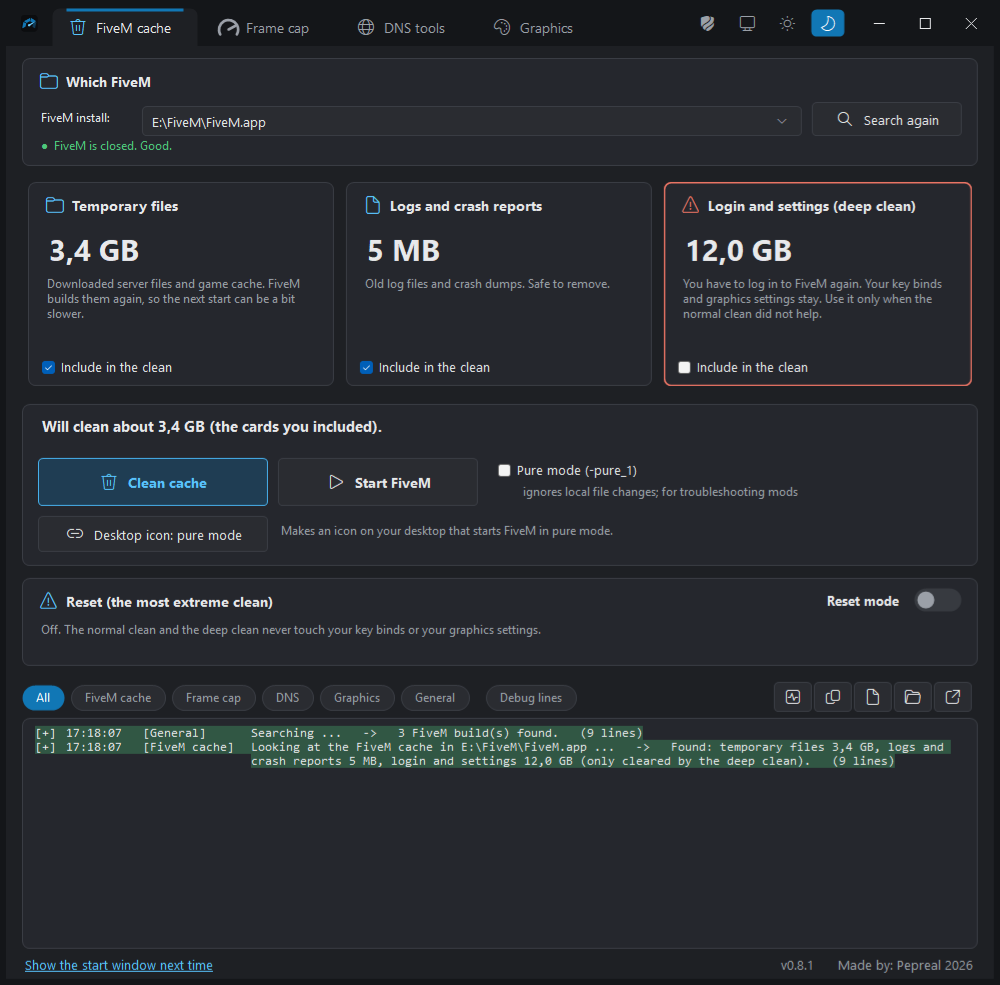
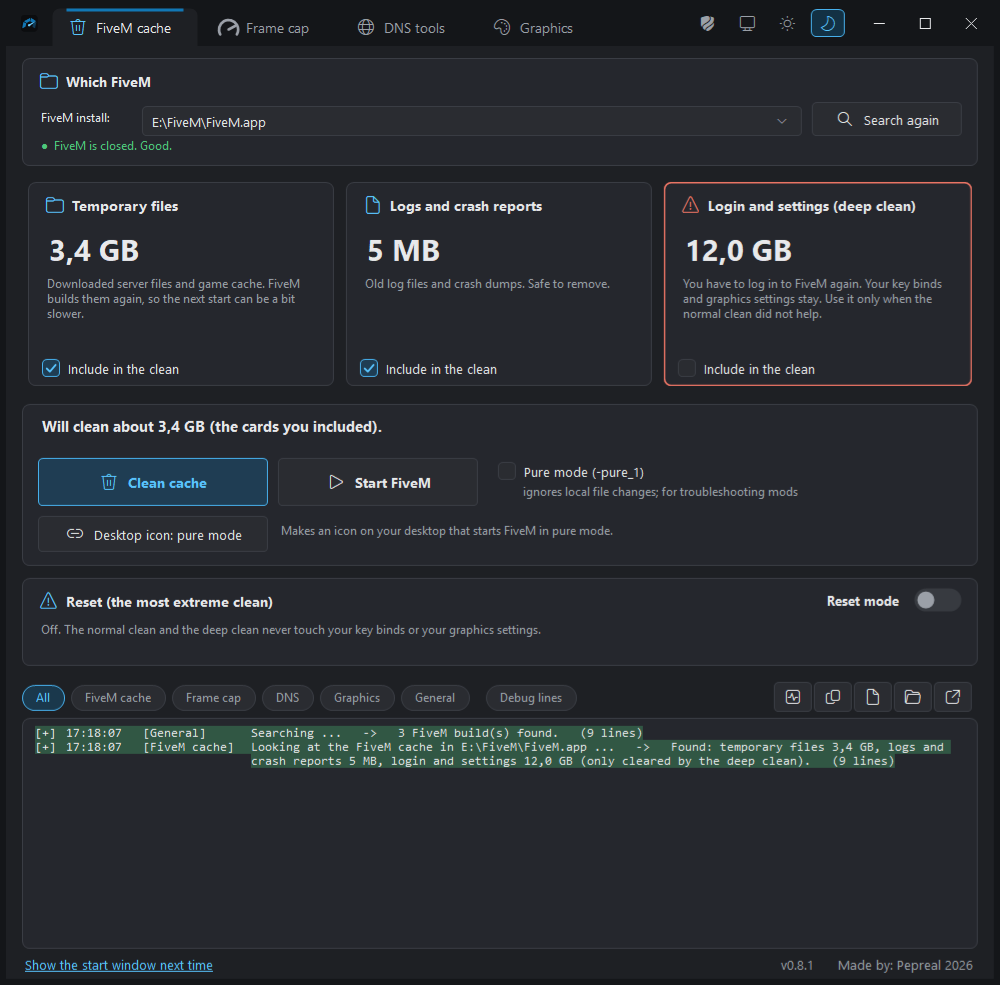
FiveM Toolbox (after 0.8.1) - tick boxes, selected pills and the selected theme button in the outline colours
- A tick box that is ticked has a dark blue fill, a blue border and a blue tick; a box that is not ticked is
  grey. All six tick boxes and the "Use" column of the two lists. A selected log pill and the selected theme
  button of the title bar are an outline too. Same in the dark and the light theme.
- Checked at 100 and 125 percent. README pictures show it. --review-test has 10 more checks; 6 planted faults caught.

diff --git a/source/FiveMToolbox.cs b/source/FiveMToolbox.cs
@@ -312,6 +312,12 @@ namespace FiveMFrameCap
                 int need = TextRenderer.MeasureText(l.Text.TrimEnd('\r', '\n', ' '), l.Font, new Size(l.Width, 0), TextFormatFlags.WordBreak | TextFormatFlags.NoPadding).Height;
                 if (need > l.Height + 3) return NameOf(l) + " needs " + need + " px of height but is " + l.Height + " px high";
             }
+            ThemedCheckBox cx = c as ThemedCheckBox;
+            if (cx != null && !string.IsNullOrEmpty(cx.Text))
+            {
+                int need = TextRenderer.MeasureText(cx.Text, cx.Font, new Size(Math.Max(1, cx.Width - Dpi.S(26)), 0), TextFormatFlags.WordBreak | TextFormatFlags.NoPadding).Height;
+                if (need > cx.Height + 3) return NameOf(cx) + " needs " + need + " px of height but is " + cx.Height + " px high";
+            }
             IconButton b = c as IconButton;
             if (b != null && !string.IsNullOrEmpty(b.Text))
             {
@@ -4863,6 +4869,18 @@ namespace FiveMFrameCap
         }
         protected override void OnMouseEnter(EventArgs e) { hv.To(1f); base.OnMouseEnter(e); }
         protected override void OnMouseLeave(EventArgs e) { hv.To(0f); base.OnMouseLeave(e); }
+        // The colours now (also used by --review-test): selected = the blue outline of the blue buttons.
+        public void GlyphColors(out Color fill, out Color border, out Color glyph)
+        {
+            Color bg = Parent != null ? Parent.BackColor : Theme.Frame;
+            float s = sel.Value, h = hv.Value;
+            Color onFill, onBorder, onText; Theme.Outline(bg, h, false, out onFill, out onBorder, out onText);
+            Color baseFill = Fx.Mix(bg, Theme.Bg4, h);
+            fill = Fx.Mix(baseFill, onFill, s);
+            border = Fx.Mix(baseFill, onBorder, s);
+            glyph = Fx.Mix(Theme.Text2, onText, s);
+        }
+
         protected override void OnPaint(PaintEventArgs e)
         {
             Graphics g = e.Graphics;
@@ -4870,10 +4888,15 @@ namespace FiveMFrameCap
             Color bg = Parent != null ? Parent.BackColor : Theme.Frame;
             g.Clear(bg);
             float s = sel.Value, h = hv.Value;
+            Color fill, border, glyph; GlyphColors(out fill, out border, out glyph);
             Rectangle r = new Rectangle(1, 1, Width - 3, Height - 3);
             if (s > 0.01f || h > 0.01f)
-                using (GraphicsPath p = Gfx.Rounded(r, Dpi.S(10))) using (Brush b = new SolidBrush(Fx.Mix(Fx.Mix(bg, Theme.Bg4, h), Theme.Primary, s))) g.FillPath(b, p);
-            Gfx.Glyph(g, Glyph, new Rectangle(0, 0, Width, Height), Fx.Mix(Theme.Text2, Color.White, s), 11f);
+                using (GraphicsPath p = Gfx.Rounded(r, Dpi.S(10)))
+                {
+                    using (Brush b = new SolidBrush(fill)) g.FillPath(b, p);
+                    if (s > 0.01f) using (Pen pen = new Pen(border, 1f + 0.25f * s)) g.DrawPath(pen, p);
+                }
+            Gfx.Glyph(g, Glyph, new Rectangle(0, 0, Width, Height), glyph, 11f);
         }
     }
 
@@ -4949,20 +4972,30 @@ namespace FiveMFrameCap
         }
         protected override void OnMouseEnter(EventArgs e) { hv.To(1f); base.OnMouseEnter(e); }
         protected override void OnMouseLeave(EventArgs e) { hv.To(0f); base.OnMouseLeave(e); }
+        // The colours now (also used by --review-test): not selected = grey, selected = the blue outline of the blue buttons (the change between the two fades).
+        public void PillColors(out Color fill, out Color border, out Color text)
+        {
+            float s = sel.Value, h = hv.Value;
+            Color behind = Parent != null ? Parent.BackColor : Theme.Bg1;
+            Color onFill, onBorder, onText; Theme.Outline(behind, h, false, out onFill, out onBorder, out onText);
+            fill = Fx.Mix(Fx.Mix(Theme.Bg3, Theme.Bg4, h), onFill, s);
+            border = Fx.Mix(Theme.Border, onBorder, s);
+            text = Fx.Mix(Theme.Text2, onText, s);
+        }
+
         protected override void OnPaint(PaintEventArgs e)
         {
             Graphics g = e.Graphics;
             g.SmoothingMode = SmoothingMode.AntiAlias;
             g.Clear(Parent != null ? Parent.BackColor : Theme.Bg1);
-            float s = sel.Value, h = hv.Value;
-            Color fill = Fx.Mix(Fx.Mix(Theme.Bg3, Theme.Bg4, h), Theme.Primary, s);
+            Color fill, border, text; PillColors(out fill, out border, out text);
             Rectangle r = new Rectangle(0, 0, Width - 1, Height - 1);
             using (GraphicsPath p = Gfx.Rounded(r, Height - 1))
             {
                 using (Brush b = new SolidBrush(fill)) g.FillPath(b, p);
-                if (s < 0.99f) using (Pen pen = new Pen(Fx.Mix(Theme.Border, fill, s))) g.DrawPath(pen, p);
+                using (Pen pen = new Pen(border, 1f + 0.25f * sel.Value)) g.DrawPath(pen, p);
             }
-            TextRenderer.DrawText(g, Text, Font, new Rectangle(0, 0, Width - 1, Height - 1), Fx.Mix(Theme.Text2, Color.White, s), TextFormatFlags.HorizontalCenter | TextFormatFlags.VerticalCenter | TextFormatFlags.NoPadding);
+            TextRenderer.DrawText(g, Text, Font, new Rectangle(0, 0, Width - 1, Height - 1), text, TextFormatFlags.HorizontalCenter | TextFormatFlags.VerticalCenter | TextFormatFlags.NoPadding);
         }
     }
 
@@ -5268,6 +5301,81 @@ namespace FiveMFrameCap
             int kd = r.Height - Dpi.S(6);
             float kx = Dpi.F(3f) + (Width - 1 - kd - Dpi.S(6)) * f.Value;
             using (Brush kb = new SolidBrush(Enabled ? knob : Fx.Mix(knob, Theme.Bg1, 0.5f))) g.FillEllipse(kb, kx, r.Y + Dpi.S(3), kd, kd);
+        }
+    }
+
+    // ---------------------------------------------------------------- tick boxes in the colours of the blue outline buttons
+    static class CheckDraw
+    {
+        // A box that is ticked has the blue outline colours (dark blue fill, blue border, blue tick); a box that is not ticked is grey, like a normal button.
+        public static void Colors(Color behind, bool on, float hover, bool enabled, out Color fill, out Color border, out Color mark)
+        {
+            if (on) Theme.Outline(behind, hover, false, out fill, out border, out mark);
+            else { fill = Fx.Mix(Theme.Bg3, Theme.Bg4, hover); border = Fx.Mix(Theme.Border, Theme.Primary, hover * 0.7f); mark = fill; }
+            if (!enabled) { fill = Fx.Mix(fill, behind, 0.5f); border = Fx.Mix(border, behind, 0.5f); mark = Fx.Mix(mark, behind, 0.5f); }
+        }
+
+        public static void Box(Graphics g, Rectangle box, Color behind, bool on, float hover, bool enabled, bool focused)
+        {
+            Color fill, border, mark; Colors(behind, on, hover, enabled, out fill, out border, out mark);
+            SmoothingMode old = g.SmoothingMode; g.SmoothingMode = SmoothingMode.AntiAlias;
+            using (GraphicsPath p = Gfx.Rounded(box, Dpi.S(8)))
+            {
+                using (Brush b = new SolidBrush(fill)) g.FillPath(b, p);
+                using (Pen pen = new Pen(border, on ? Dpi.F(1.25f) : 1f)) g.DrawPath(pen, p);
+            }
+            if (focused) using (GraphicsPath fp = Gfx.Rounded(Rectangle.Inflate(box, Dpi.S(2), Dpi.S(2)), Dpi.S(10))) using (Pen pen2 = new Pen(Theme.AccentText, Dpi.F(1.5f))) g.DrawPath(pen2, fp);
+            if (on)
+            {
+                float w = box.Width, h = box.Height;
+                PointF[] pts = new PointF[] { new PointF(box.X + w * 0.24f, box.Y + h * 0.52f), new PointF(box.X + w * 0.43f, box.Y + h * 0.71f), new PointF(box.X + w * 0.77f, box.Y + h * 0.31f) };
+                using (Pen mp = new Pen(mark, Math.Max(1.6f, Dpi.F(1.8f)))) { mp.StartCap = LineCap.Round; mp.EndCap = LineCap.Round; mp.LineJoin = LineJoin.Round; g.DrawLines(mp, pts); }
+            }
+            g.SmoothingMode = old;
+        }
+    }
+
+    // A tick box that draws itself: the colours of the blue outline buttons, the text next to it (one line, or several lines with the box at the top).
+    class ThemedCheckBox : CheckBox
+    {
+        readonly Fader hv;
+
+        public ThemedCheckBox()
+        {
+            SetStyle(ControlStyles.UserPaint | ControlStyles.AllPaintingInWmPaint | ControlStyles.OptimizedDoubleBuffer | ControlStyles.ResizeRedraw, true);
+            FlatStyle = FlatStyle.Flat;
+            hv = new Fader(this);
+        }
+
+        protected override void OnMouseEnter(EventArgs e) { hv.To(1f); base.OnMouseEnter(e); }
+        protected override void OnMouseLeave(EventArgs e) { hv.To(0f); base.OnMouseLeave(e); }
+        protected override void OnCheckedChanged(EventArgs e) { Invalidate(); base.OnCheckedChanged(e); }
+        protected override void OnEnabledChanged(EventArgs e) { Invalidate(); base.OnEnabledChanged(e); }
+        protected override void OnTextChanged(EventArgs e) { Invalidate(); base.OnTextChanged(e); }
+        protected override void OnGotFocus(EventArgs e) { Invalidate(); base.OnGotFocus(e); }
+        protected override void OnLostFocus(EventArgs e) { Invalidate(); base.OnLostFocus(e); }
+
+        // the colours now (also used by --review-test)
+        public void CheckColors(out Color fill, out Color border, out Color mark)
+        {
+            CheckDraw.Colors(Parent != null ? Parent.BackColor : Theme.Bg1, Checked, hv.Value, Enabled, out fill, out border, out mark);
+        }
+
+        protected override void OnPaint(PaintEventArgs e)
+        {
+            Graphics g = e.Graphics;
+            Color behind = Parent != null ? Parent.BackColor : Theme.Bg1;
+            g.Clear(behind);
+            int bs = Dpi.S(18), gap = Dpi.S(8), tx = bs + gap;
+            Rectangle tr = new Rectangle(tx, 0, Math.Max(1, Width - tx), Height);
+            int lineH = TextRenderer.MeasureText(g, "Ag", Font, new Size(int.MaxValue, int.MaxValue), TextFormatFlags.NoPadding).Height;
+            int textH = string.IsNullOrEmpty(Text) ? 0 : TextRenderer.MeasureText(g, Text, Font, new Size(tr.Width, 0), TextFormatFlags.WordBreak | TextFormatFlags.NoPadding).Height;
+            bool multi = textH > lineH + Dpi.S(3);
+            int by = multi ? Math.Max(0, (lineH - bs) / 2) : (Height - bs) / 2;
+            CheckDraw.Box(g, new Rectangle(0, by, bs - 1, bs - 1), behind, Checked, hv.Value, Enabled, Focused && ShowFocusCues);
+            if (textH > 0)
+                TextRenderer.DrawText(g, Text, Font, tr, Enabled ? ForeColor : Theme.Text2,
+                    (multi ? TextFormatFlags.Top | TextFormatFlags.WordBreak : TextFormatFlags.VerticalCenter | TextFormatFlags.EndEllipsis) | TextFormatFlags.Left | TextFormatFlags.NoPadding);
         }
     }
 
@@ -6119,7 +6227,7 @@ namespace FiveMFrameCap
             y = UiUtil.Wrapped(Body, "By continuing you accept these risks. Where it is possible, the old setting is saved or backed up first.", 26, y, bodyW - 52, normal, null, out p2);
             y += 16;
 
-            dont = new CheckBox(); dont.Text = Loc.T("Do not show this window again"); dont.Left = 26; dont.Top = y; dont.Width = bodyW - 52; dont.Height = 26; Body.Controls.Add(dont); y += 40;
+            dont = new ThemedCheckBox(); dont.Text = Loc.T("Do not show this window again"); dont.Left = 26; dont.Top = y; dont.Width = bodyW - 52; dont.Height = 26; Body.Controls.Add(dont); y += 40;
 
             IconButton ok = new IconButton(); ok.Glyph = Ico.Accept; ok.Text = Loc.T("I understand, continue"); ok.Tag = "primary"; ok.Left = 26; ok.Top = y; ok.Width = 262; ok.Height = 42;
             ok.Font = new Font("Segoe UI", 10f, FontStyle.Bold); ok.DialogResult = DialogResult.OK; Body.Controls.Add(ok);
@@ -6182,7 +6290,7 @@ namespace FiveMFrameCap
             Label adminSub;
             y = UiUtil.Wrapped(Body, "Windows asks once. Then the DNS tools never ask for permission again.", 86, y + 26, bodyW - 52 - 60, new Font("Segoe UI", 9f), "muted", out adminSub);
             y += 14;
-            skip = new CheckBox(); skip.Text = Loc.T("Skip this window next time and open the tool I pick"); skip.Left = 26; skip.Top = y; skip.Width = bodyW - 52; skip.Height = 26; Body.Controls.Add(skip); y += 32;
+            skip = new ThemedCheckBox(); skip.Text = Loc.T("Skip this window next time and open the tool I pick"); skip.Left = 26; skip.Top = y; skip.Width = bodyW - 52; skip.Height = 26; Body.Controls.Add(skip); y += 32;
             Label note;
             y = UiUtil.Wrapped(Body, "You can bring this window back with the link at the bottom of the main window.", 26, y, bodyW - 52, new Font("Segoe UI", 9f), "muted", out note);
             y += 16;
@@ -6226,7 +6334,7 @@ namespace FiveMFrameCap
             string sureText = Loc.T("I understand that I lose my key binds and my graphics settings");
             Font sf = new Font("Segoe UI", 10f, FontStyle.Bold);
             int sh = Dpi.L(TextRenderer.MeasureText(sureText, sf, new Size(Dpi.S(bodyW - 52 - 26), 0), TextFormatFlags.WordBreak | TextFormatFlags.NoPadding).Height) + 12;
-            sure = new CheckBox(); sure.Text = sureText; sure.Font = sf; sure.AutoSize = false;
+            sure = new ThemedCheckBox(); sure.Text = sureText; sure.Font = sf; sure.AutoSize = false;
             sure.Left = 26; sure.Top = y; sure.Width = bodyW - 52; sure.Height = sh; Body.Controls.Add(sure);
             y += sh + 14;
             Font bf = new Font("Segoe UI", 10f, FontStyle.Bold);
@@ -6344,7 +6452,27 @@ namespace FiveMFrameCap
             g.ColumnHeadersHeight = 26; g.RowTemplate.Height = 24; g.BorderStyle = BorderStyle.None; g.ReadOnly = false;
             g.CellBorderStyle = DataGridViewCellBorderStyle.SingleHorizontal;
             g.CurrentCellDirtyStateChanged += delegate { if (g.IsCurrentCellDirty) g.CommitEdit(DataGridViewDataErrorContexts.Commit); };
+            g.CellPainting += GridCheckPaint;
+            g.CellMouseEnter += delegate(object s0, DataGridViewCellEventArgs e0) { if (e0.RowIndex >= 0 && e0.ColumnIndex >= 0 && g.Columns[e0.ColumnIndex] is DataGridViewCheckBoxColumn) g.InvalidateCell(e0.ColumnIndex, e0.RowIndex); };
+            g.CellMouseLeave += delegate(object s1, DataGridViewCellEventArgs e1) { if (e1.RowIndex >= 0 && e1.ColumnIndex >= 0 && g.Columns[e1.ColumnIndex] is DataGridViewCheckBoxColumn) g.InvalidateCell(e1.ColumnIndex, e1.RowIndex); };
             return g;
+        }
+
+        // the tick box of the "Use" column in the colours of the blue outline buttons (the rest of the cell is drawn as usual)
+        static void GridCheckPaint(object sender, DataGridViewCellPaintingEventArgs e)
+        {
+            DataGridView g = (DataGridView)sender;
+            if (e.RowIndex < 0 || e.ColumnIndex < 0 || !(g.Columns[e.ColumnIndex] is DataGridViewCheckBoxColumn)) return;
+            e.Paint(e.CellBounds, e.PaintParts & ~DataGridViewPaintParts.ContentForeground);
+            bool selected = (e.State & DataGridViewElementStates.Selected) != 0;
+            Color behind = selected ? e.CellStyle.SelectionBackColor : e.CellStyle.BackColor;
+            int bs = Dpi.S(18);
+            Rectangle box = new Rectangle(e.CellBounds.X + (e.CellBounds.Width - bs) / 2, e.CellBounds.Y + (e.CellBounds.Height - bs) / 2, bs - 1, bs - 1);
+            bool on = e.Value is bool && (bool)e.Value;
+            bool hot = false;
+            try { hot = e.CellBounds.Contains(g.PointToClient(Cursor.Position)); } catch (Exception) { }
+            CheckDraw.Box(e.Graphics, box, behind, on, hot ? 1f : 0f, g.Enabled, false);
+            e.Handled = true;
         }
         static DataGridViewColumn TextCol(string header, int width, bool fill)
         {
@@ -7000,7 +7128,7 @@ namespace FiveMFrameCap
             dnsFlush = Btn(Ico.Delete, "Clear DNS cache", 16, 50, 220, 44);
             dnsFlush.Click += delegate { RunDns("--dns-flush " + (cbExtraFlush.Checked ? "extra" : "plain"), "Clearing the DNS cache ...", "flush", null); }; cFlush.Controls.Add(dnsFlush);
             cFlush.Controls.Add(Small("Fixes \"site not found\" after a DNS or network change. It tries up to 3 times and checks the cache is really empty. Windows asks for permission first.", 252, 46, CardW - 270, 38, "muted"));
-            cbExtraFlush = new CheckBox(); cbExtraFlush.Text = Loc.T("Also clear the NetBIOS and ARP caches (a bit more thorough)"); cbExtraFlush.Left = 252; cbExtraFlush.Top = 84; cbExtraFlush.Width = 600; cbExtraFlush.Height = 24; cFlush.Controls.Add(cbExtraFlush);
+            cbExtraFlush = new ThemedCheckBox(); cbExtraFlush.Text = Loc.T("Also clear the NetBIOS and ARP caches (a bit more thorough)"); cbExtraFlush.Left = 252; cbExtraFlush.Top = 84; cbExtraFlush.Width = 600; cbExtraFlush.Height = 24; cFlush.Controls.Add(cbExtraFlush);
 
             Card cChange = NewCard("Change DNS", Ico.Globe, 348, 170); pageDns.Controls.Add(cChange);
             rbCf = new RadioButton(); rbCf.Text = Loc.T("Cloudflare (default)   1.1.1.1"); rbCf.Left = 16; rbCf.Top = 46; rbCf.Width = 300; rbCf.Height = 26; rbCf.Checked = true; cChange.Controls.Add(rbCf);
@@ -7552,7 +7680,7 @@ namespace FiveMFrameCap
             desc = new Label(); desc.Text = ""; desc.AutoSize = false; desc.Left = 16; desc.Top = 94; desc.Width = 250; desc.Height = 70; desc.Tag = "muted"; desc.Font = new Font("Segoe UI", 9f);
             desc.Anchor = AnchorStyles.Top | AnchorStyles.Left;
             p.Controls.Add(desc);
-            include = new CheckBox(); include.Text = Loc.T("Include in the clean"); include.AutoSize = false; include.Left = 14; include.Top = 172; include.Width = 250; include.Height = 28;
+            include = new ThemedCheckBox(); include.Text = Loc.T("Include in the clean"); include.AutoSize = false; include.Left = 14; include.Top = 172; include.Width = 250; include.Height = 28;
             include.Anchor = AnchorStyles.Top | AnchorStyles.Left;
             p.Controls.Add(include); p.Resize += delegate { int cw = Math.Max(Dpi.S(60), p.Width - Dpi.S(32)); foreach (Control cc in p.Controls) if (cc is Label || cc is CheckBox) cc.Width = cw; };
             return p;
@@ -7585,7 +7713,7 @@ namespace FiveMFrameCap
             cacheTotal = new Label(); cacheTotal.Left = 16; cacheTotal.Top = 12; cacheTotal.Width = CardW - 32; cacheTotal.Height = 28; cacheTotal.Font = new Font("Segoe UI", 11f, FontStyle.Bold); cacheTotal.Text = "..."; cacheTotal.Anchor = AnchorStyles.Top | AnchorStyles.Left | AnchorStyles.Right; cGo.Controls.Add(cacheTotal);
             cacheClean = Btn(Ico.Delete, "Clean cache", 16, 54, 230, 48); cacheClean.Tag = "primary"; cacheClean.Font = new Font("Segoe UI", 10.5f, FontStyle.Bold); cacheClean.Click += CacheCleanClick; cGo.Controls.Add(cacheClean);
             cacheStart = Btn(Ico.Play, "Start FiveM", 256, 54, 200, 48); cacheStart.Font = new Font("Segoe UI", 10.5f, FontStyle.Bold); cacheStart.Enabled = false; cacheStart.Click += StartFiveMClick; cGo.Controls.Add(cacheStart);
-            cbPure = new CheckBox(); cbPure.Text = Loc.T("Pure mode (-pure_1)"); cbPure.Left = 476; cbPure.Top = 54; cbPure.Width = 300; cbPure.Height = 26; cGo.Controls.Add(cbPure);
+            cbPure = new ThemedCheckBox(); cbPure.Text = Loc.T("Pure mode (-pure_1)"); cbPure.Left = 476; cbPure.Top = 54; cbPure.Width = 300; cbPure.Height = 26; cGo.Controls.Add(cbPure);
             cGo.Controls.Add(Small("ignores local file changes; for troubleshooting mods", 498, 80, 420, 22, "muted"));
             // a second row on the same grid as the first: the button is as wide as "Clean cache" (same left and right edge), and its text starts under "Start FiveM"
             int iw = FitW("Desktop icon: pure mode", 230);
@@ -10935,6 +11063,22 @@ namespace FiveMFrameCap
                         ToggleSwitch tsOff = new ToggleSwitch();
                         Color tfTrack, tfRim, tfKnob; tsOff.SwitchColors(out tfTrack, out tfRim, out tfKnob);
                         rck(tfTrack != tsTrack && tfKnob == Theme.Text2 && tfRim == tfTrack, themeName + ": a switch that is off is grey with a grey knob and no blue rim");
+                        ThemedCheckBox cbOn = new ThemedCheckBox(); cbOn.Checked = true;
+                        Color cbF, cbB, cbM; cbOn.CheckColors(out cbF, out cbB, out cbM);
+                        rck(cbF == pbBack && cbB == pbBorder && cbM == pbFore, themeName + ": a tick box that is ticked has the same colours as the blue button (fill " + cbF.Name + ", tick " + cbM.Name + ")");
+                        ThemedCheckBox cbOff = new ThemedCheckBox();
+                        Color cbF2, cbB2, cbM2; cbOff.CheckColors(out cbF2, out cbB2, out cbM2);
+                        rck(cbF2 == Theme.Bg3 && cbF2 != cbF && cbB2 != cbB, themeName + ": a tick box that is not ticked is grey");
+                        Pill pillOn = new Pill("All"); pillOn.Selected = true;
+                        Color plF, plB, plT; pillOn.PillColors(out plF, out plB, out plT);
+                        rck(plF == pbBack && plB == pbBorder && plT == pbFore, themeName + ": a selected pill has the same colours as the blue button (fill " + plF.Name + ", text " + plT.Name + ")");
+                        Pill pillOff = new Pill("All");
+                        Color plF2, plB2, plT2; pillOff.PillColors(out plF2, out plB2, out plT2);
+                        rck(plF2 == Theme.Bg3 && plT2 == Theme.Text2 && plB2 == Theme.Border, themeName + ": a pill that is not selected is grey");
+                        GlyphButton gbOn = new GlyphButton(Ico.Sun); gbOn.Selected = true;
+                        Color gbF, gbB, gbG; gbOn.GlyphColors(out gbF, out gbB, out gbG);
+                        Color gbWantF, gbWantB, gbWantG; Theme.Outline(Theme.Frame, 0f, false, out gbWantF, out gbWantB, out gbWantG);
+                        rck(gbF == gbWantF && gbB == gbWantB && gbG == gbWantG && gbF != Theme.Primary, themeName + ": the selected theme button in the title bar has the blue outline colours (fill " + gbF.Name + ")");
                         IconButton off = new IconButton(); off.Tag = "primary"; off.Enabled = false;
                         Color offBack, offFore, offBorder; off.ButtonColors(out offBack, out offFore, out offBorder);
                         rck(offBack == Theme.Bg3 && offFore == Theme.Text2, themeName + ": a blue button that is switched off is grey");

diff --git a/CHANGELOG.md b/CHANGELOG.md
@@ -11,6 +11,8 @@ Tags: NEW, CHANGED, FIXED.
 
 **NEW** - **The welcome window tells you when there is a newer version.** *When the welcome window opens, the program asks GitHub in the background for the newest version of the program. Only the name and the version of the program go out (and your IP address, like with every web page). If a newer version is out, an orange line under the copyright says so, and a click on it opens the download page. If you are up to date, or GitHub can not be reached, the window shows nothing. The same notice shows in the main window (see the next entry).*
 
+**CHANGED** - **The tick boxes, the selected filter pills of the log and the selected theme button in the title bar have the colours of the blue buttons.** *A tick box that is ticked has a dark blue fill, a blue border and a blue tick (before: the Windows blue box with a white tick); a box that is not ticked is grey. It is the same for the "Use" column of the lists. A selected pill (for example "All" above the log) and the selected button for the light, dark or system theme are an outline too (before: a solid blue block with white text). It is the same in the dark and the light theme, also at 125 percent screen scaling. The README pictures show it.*
+
 **NEW** - **The main window tells you about a newer version too.** *At the bottom right, left of the version number, an orange "New version: 0.8.2" appears when GitHub has a newer version. A click on it opens the download page. The program asks GitHub once each time it starts: the welcome window and the main window share the answer. If you do not want this, put a line `updatecheck=off` in `settings.txt` in `%LOCALAPPDATA%\FiveMToolbox`: then the program never asks.*
 
 **CHANGED** - **The copyright line of the welcome window is a link to the GitHub page of the program.**
